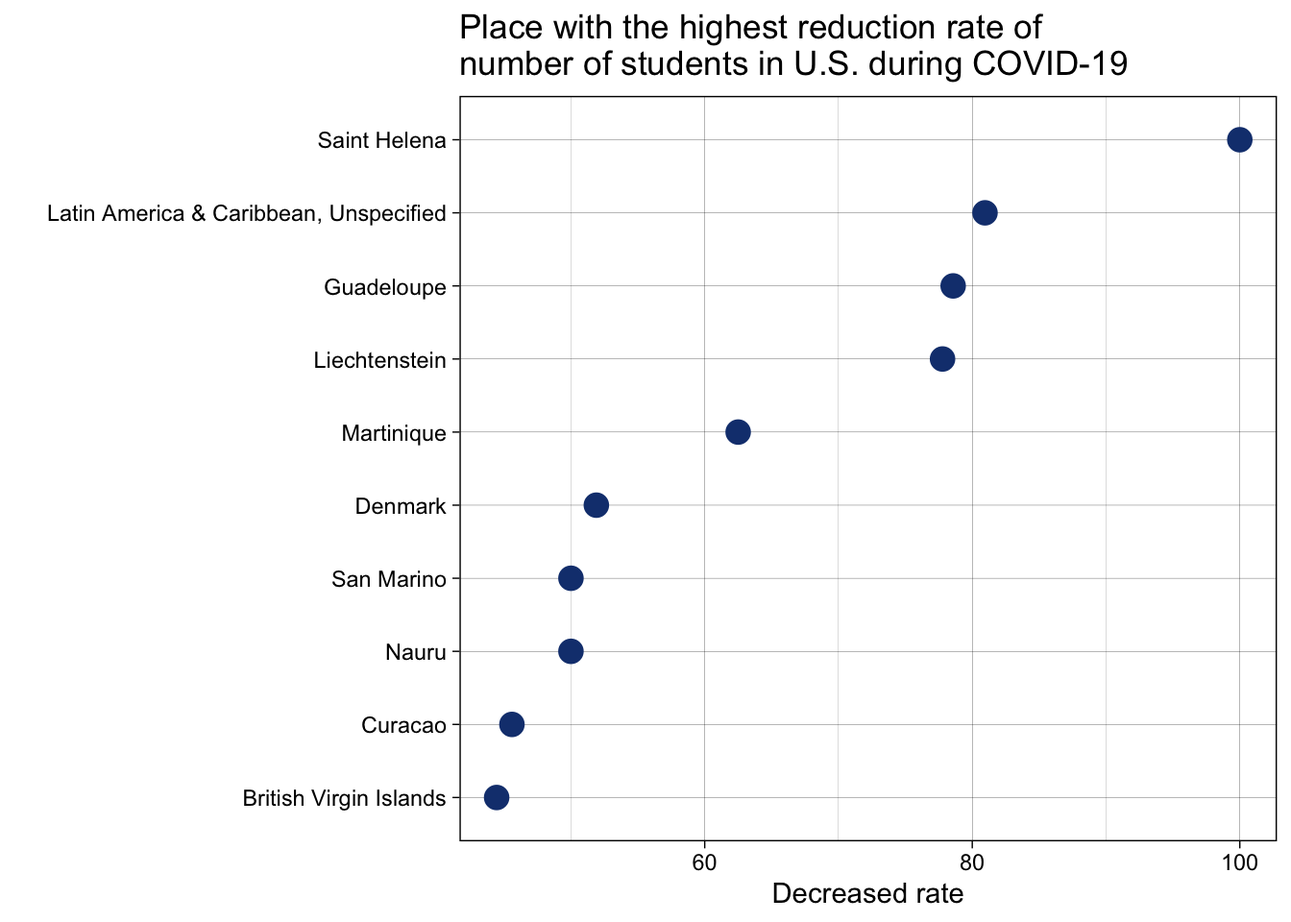
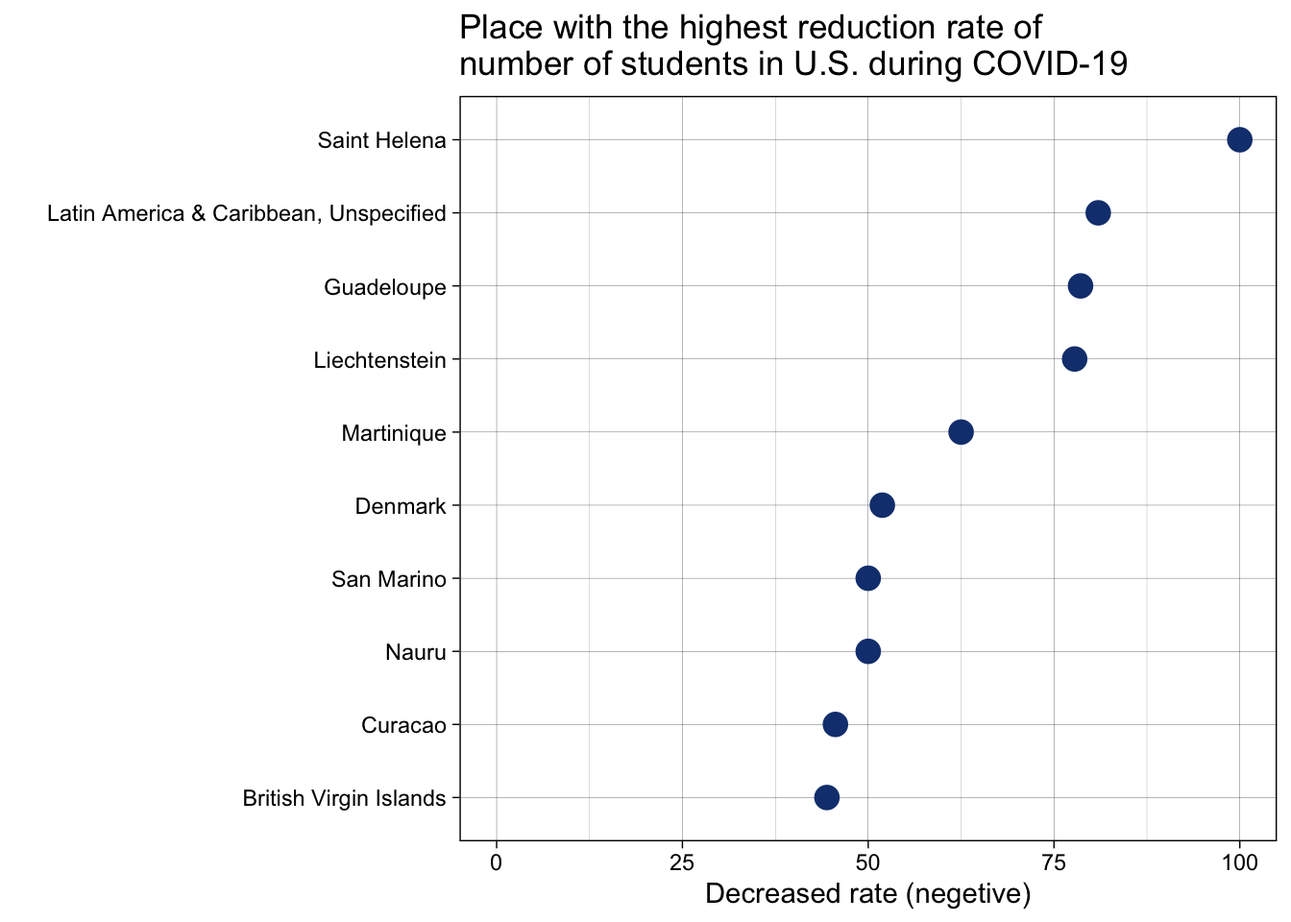
update plot

diff --git a/docs/results.html b/docs/results.html
@@ -330,7 +330,7 @@ code span.wa { color: #60a0b0; font-weight: bold; font-style: italic; } /* Warni
 <span id="cb4-38"><a href="results.html#cb4-38" aria-hidden="true" tabindex="-1"></a>  <span class="fu">theme_linedraw</span>() <span class="sc">+</span></span>
 <span id="cb4-39"><a href="results.html#cb4-39" aria-hidden="true" tabindex="-1"></a>  <span class="fu">scale_color_manual</span>(<span class="at">values =</span> colorsets[<span class="fu">c</span>(<span class="dv">4</span>,<span class="dv">2</span>)])</span>
 <span id="cb4-40"><a href="results.html#cb4-40" aria-hidden="true" tabindex="-1"></a></span>
-<span id="cb4-41"><a href="results.html#cb4-41" aria-hidden="true" tabindex="-1"></a>pt2 <span class="ot">&lt;-</span> <span class="fu">ggarrange</span>(p.top16, p.other, <span class="at">ncol=</span><span class="dv">1</span>, <span class="at">nrow=</span><span class="dv">2</span>, <span class="at">common.legend =</span> <span class="cn">TRUE</span>, <span class="at">legend=</span><span class="st">&quot;top&quot;</span>,</span>
+<span id="cb4-41"><a href="results.html#cb4-41" aria-hidden="true" tabindex="-1"></a>pt2 <span class="ot">&lt;-</span> <span class="fu">ggarrange</span>(p.top16, p.other, <span class="at">ncol=</span><span class="dv">1</span>, <span class="at">nrow=</span><span class="dv">2</span>, <span class="at">common.legend =</span> <span class="cn">TRUE</span>, <span class="at">legend=</span><span class="st">&quot;right&quot;</span>,</span>
 <span id="cb4-42"><a href="results.html#cb4-42" aria-hidden="true" tabindex="-1"></a>                 <span class="at">align =</span> <span class="st">&quot;v&quot;</span>)</span>
 <span id="cb4-43"><a href="results.html#cb4-43" aria-hidden="true" tabindex="-1"></a></span>
 <span id="cb4-44"><a href="results.html#cb4-44" aria-hidden="true" tabindex="-1"></a><span class="fu">annotate_figure</span>(pt2, </span>
@@ -377,8 +377,8 @@ According to this map, we can find that China, India, and South Korea are the ma
 <span id="cb7-13"><a href="results.html#cb7-13" aria-hidden="true" tabindex="-1"></a>   <span class="fu">scale_color_manual</span>(<span class="at">values =</span> colorsets[<span class="fu">c</span>(<span class="dv">2</span>,<span class="dv">7</span>)]) <span class="sc">+</span> </span>
 <span id="cb7-14"><a href="results.html#cb7-14" aria-hidden="true" tabindex="-1"></a>  <span class="fu">theme_bw</span>()</span></code></pre></div>
 <div class="sourceCode" id="cb8"><pre class="sourceCode r"><code class="sourceCode r"><span id="cb8-1"><a href="results.html#cb8-1" aria-hidden="true" tabindex="-1"></a><span class="fu">ggplotly</span>(g, <span class="at">tooltip =</span> <span class="fu">c</span>(<span class="st">&quot;x&quot;</span>,<span class="st">&quot;text&quot;</span>))</span></code></pre></div>
-<div id="htmlwidget-7f4f1e26982aa2153050" style="width:672px;height:480px;" class="plotly html-widget"></div>
-<script type="application/json" data-for="htmlwidget-7f4f1e26982aa2153050">{"x":{"data":[{"x":[-9.14634146341463,-34.5679012345679,-8.06451612903226,-5.60646900269542,-7.68698060941828,-18.1818181818182,-6.86274509803922,-18.6263096623981,-9.44498539435248,-6.09348914858097,-8.50202429149797,-2.85714285714286,-17.3218673218673,-11.3821138211382,-42.5,-8.88888888888889,-2.71084337349398,-6.51978417266187,-5.17241379310345,-5.30137981118373,-10.2564102564103,-13.0434782608696,-11.296738265712,-8.36820083682008,-30.7692307692308,-10.7692307692308,-5.26315789473684,-20.8955223880597,-28.8808664259928,-6.55427990117715,-100,-11.340206185567,-8.41121495327103,-14.8263773313433,-13.2782531720271,-32.8643044320383,-16.10337972167,-12.5173852573018,-20.7151318034893,-17.0755353228798,-16.1137440758294,-2.71554650373388,-24.6753246753247,-13.2256995505478,-12.4820659971306,-8.12324929971989,-20.6896551724138,-12.2388059701493,-5.84456480665071,-13.5995009357455,-15.2892561983471,-1.10294117647059,-1.46520146520147,-31.4814814814815,-9.7710843373494,-13.7404580152672,-23.589001447178,-7.11159737417943,-11.7754172989378,-21.0035523978686,-19.4020149496263,-9.02552887243975,-3.83561643835616,-6.19469026548673,-40.7239819004525,-2.62697022767075,-8.24742268041237,-28.3412322274881,-9.05923344947735,-15.2173913043478,-16.7372881355932,-13.4259259259259,-20.1834862385321,-51.8987341772152,-11.864406779661,-29.7101449275362,-33.3844882540432,-8.90625,-41.9606145855875,-9.36118923262354,-9.80662983425414,-12.6520681265207,-29.1530944625407,-19.2808840507999,-10.9826589595376,-15.3284671532847,-77.7777777777778,-14.6875,-29.5454545454545,-21.5094339622642,-11.5384615384615,-26.6355140186916,-0.819672131147541,-35.2035203520352,-32.9268292682927,-12.2273628552545,-15.3104925053533,-14.8,-9.21972416399018,-50,-11.2068965517241,-19.3353474320242,-25.7692307692308,-27.319587628866,-36.3523187052599,-26.2686567164179,-14.4710473578736,-8.42548709847288,-25.3625883227966,-3.62694300518135,-6.32,-6.77290836653386,-44.4444444444444,-11.7647058823529,-11.5384615384615,-45.5882352941176,-9.7897026831037,-12.4223602484472,-78.5714285714286,-5.89459084604716,-62.5,-5.49450549450549,-26.1194029850746,-7.23270440251572,-9.27835051546392,-8.54838709677419,-5.62934851359899,-7.78242677824268,-6.47848218417399,-9.49261221076108,-2.24948875255624,-2.86885245901639,-10.0494233937397,-6.25521267723103,-16.021834323076,-10.3101087394281,-8.7325028894311,-11.8162692847125,-42.8571428571429,-3.50877192982456,-12.80353200883,-10.6929248723559,-10.8374384236453,-16.0422670509126,-20.1036269430052,-17.1608265947889,-4.21958213846784,-18.2567164179105,-0.526623756582797,-13.3547008547009,-11.2970711297071,-16.1194029850746,-29.1501114449075,-8.207343412527,-16.2487945998071,-8.4375,-8.36820083682008,-4.84581497797357,-21.8055555555556,-13.6757838559039,-19.6992481203008,-3.26638965835642,-27.2782015254918,-1.11111111111111,-20.8955223880597,-12.5,-50,-18.1034482758621,-26.4705882352941,-5.88235294117647,-15.3846153846154,-80.9523809523809],"y":[1,1,1,1,1,1,1,1,1,1,1,1,1,1,1,1,1,1,1,1,1,1,1,1,1,1,1,1,1,1,1,1,1,2,2,2,2,2,2,2,2,2,2,2,2,2,2,2,2,2,2,2,2,2,2,2,2,2,2,2,2,2,3,3,3,3,3,3,3,3,3,3,3,3,3,3,3,3,3,3,3,3,3,3,3,3,3,3,3,3,3,3,3,3,3,3,3,3,3,3,3,3,3,3,3,3,3,3,3,4,4,4,4,4,4,4,4,4,4,4,4,4,4,4,4,4,4,4,4,4,4,4,4,4,4,4,4,4,4,4,4,4,5,5,5,5,5,5,5,5,5,5,5,5,5,5,1,1,1,1,1,6,7,7,7,7,7,7,7,7,7,4],"text":["diff_rate:   -9.1463415<br />Burundi","diff_rate:  -34.5679012<br />Eritrea","diff_rate:   -8.0645161<br />Ethiopia","diff_rate:   -5.6064690<br />Kenya","diff_rate:   -7.6869806<br />Rwanda","diff_rate:  -18.1818182<br />Seychelles","diff_rate:   -6.8627451<br />South Sudan","diff_rate:  -18.6263097<br />Tanzania","diff_rate:   -9.4449854<br />Cameroon","diff_rate:   -6.0934891<br />Congo, Dem. Rep. of the (Kinshasa)","diff_rate:   -8.5020243<br />Equatorial Guinea","diff_rate:   -2.8571429<br />Gabon","diff_rate:  -17.3218673<br />Angola","diff_rate:  -11.3821138<br />Botswana","diff_rate:  -42.5000000<br />Comoros","diff_rate:   -8.8888889<br />Malawi","diff_rate:   -2.7108434<br />Mauritius","diff_rate:   -6.5197842<br />South Africa","diff_rate:   -5.1724138<br />Zambia","diff_rate:   -5.3013798<br />Zimbabwe","diff_rate:  -10.2564103<br />Benin","diff_rate:  -13.0434783<br />Burkina Faso","diff_rate:  -11.2967383<br />Côte d’Ivoire/Ivory Coast","diff_rate:   -8.3682008<br />Gambia","diff_rate:  -30.7692308<br />Guinea-Bissau","diff_rate:  -10.7692308<br />Liberia","diff_rate:   -5.2631579<br />Mali","diff_rate:  -20.8955224<br />Mauritania","diff_rate:  -28.8808664<br />Niger","diff_rate:   -6.5542799<br />Nigeria","diff_rate: -100.0000000<br />Saint Helena","diff_rate:  -11.3402062<br />Senegal","diff_rate:   -8.4112150<br />Togo","diff_rate:  -14.8263773<br />China","diff_rate:  -13.2782532<br />Hong Kong","diff_rate:  -32.8643044<br />Japan","diff_rate:  -16.1033797<br />Macau","diff_rate:  -12.5173853<br />Mongolia","diff_rate:  -20.7151318<br />South Korea","diff_rate:  -17.0755353<br />Taiwan, China","diff_rate:  -16.1137441<br />Afghanistan","diff_rate:   -2.7155465<br />Bangladesh","diff_rate:  -24.6753247<br />Bhutan","diff_rate:  -13.2256996<br />India","diff_rate:  -12.4820660<br />Kazakhstan","diff_rate:   -8.1232493<br />Kyrgyzstan","diff_rate:  -20.6896552<br />Maldives","diff_rate:  -12.2388060<br />Nepal","diff_rate:   -5.8445648<br />Pakistan","diff_rate:  -13.5995009<br />Sri Lanka","diff_rate:  -15.2892562<br />Tajikistan","diff_rate:   -1.1029412<br />Turkmenistan","diff_rate:   -1.4652015<br />Uzbekistan","diff_rate:  -31.4814815<br />Brunei","diff_rate:   -9.7710843<br />Indonesia","diff_rate:  -13.7404580<br />Laos","diff_rate:  -23.5890014<br />Malaysia","diff_rate:   -7.1115974<br />Myanmar","diff_rate:  -11.7754173<br />Philippines","diff_rate:  -21.0035524<br />Singapore","diff_rate:  -19.4020149<br />Thailand","diff_rate:   -9.0255289<br />Vietnam","diff_rate:   -3.8356164<br />Albania","diff_rate:   -6.1946903<br />Armenia","diff_rate:  -40.7239819<br />Austria","diff_rate:   -2.6269702<br />Azerbaijan","diff_rate:   -8.2474227<br />Belarus","diff_rate:  -28.3412322<br />Belgium","diff_rate:   -9.0592334<br />Bosnia and Herzegovina","diff_rate:  -15.2173913<br />Bulgaria","diff_rate:  -16.7372881<br />Croatia","diff_rate:  -13.4259259<br />Cyprus","diff_rate:  -20.1834862<br />Czechia/Czech Republic","diff_rate:  -51.8987342<br />Denmark","diff_rate:  -11.8644068<br />Estonia","diff_rate:  -29.7101449<br />Finland","diff_rate:  -33.3844883<br />France","diff_rate:   -8.9062500<br />Georgia","diff_rate:  -41.9606146<br />Germany","diff_rate:   -9.3611892<br />Greece","diff_rate:   -9.8066298<br />Hungary","diff_rate:  -12.6520681<br />Iceland","diff_rate:  -29.1530945<br />Ireland","diff_rate:  -19.2808841<br />Italy","diff_rate:  -10.9826590<br />Kosovo","diff_rate:  -15.3284672<br />Latvia","diff_rate:  -77.7777778<br />Liechtenstein","diff_rate:  -14.6875000<br />Lithuania","diff_rate:  -29.5454545<br />Luxembourg","diff_rate:  -21.5094340<br />North Macedonia/Macedonia","diff_rate:  -11.5384615<br />Malta","diff_rate:  -26.6355140<br />Moldova","diff_rate:   -0.8196721<br />Montenegro","diff_rate:  -35.2035204<br />Netherlands","diff_rate:  -32.9268293<br />Norway","diff_rate:  -12.2273629<br />Poland","diff_rate:  -15.3104925<br />Portugal","diff_rate:  -14.8000000<br />Romania","diff_rate:   -9.2197242<br />Russia","diff_rate:  -50.0000000<br />San Marino","diff_rate:  -11.2068966<br />Serbia","diff_rate:  -19.3353474<br />Slovakia","diff_rate:  -25.7692308<br />Slovenia","diff_rate:  -27.3195876<br />Spain","diff_rate:  -36.3523187<br />Sweden","diff_rate:  -26.2686567<br />Switzerland","diff_rate:  -14.4710474<br />Turkey","diff_rate:   -8.4254871<br />Ukraine","diff_rate:  -25.3625883<br />United Kingdom","diff_rate:   -3.6269430<br />Antigua and Barbuda","diff_rate:   -6.3200000<br />Bahamas","diff_rate:   -6.7729084<br />Bermuda","diff_rate:  -44.4444444<br />British Virgin Islands","diff_rate:  -11.7647059<br />Cayman Islands","diff_rate:  -11.5384615<br />Cuba","diff_rate:  -45.5882353<br />Curacao","diff_rate:   -9.7897027<br />Dominican Republic","diff_rate:  -12.4223602<br />Grenada","diff_rate:  -78.5714286<br />Guadeloupe","diff_rate:   -5.8945908<br />Jamaica","diff_rate:  -62.5000000<br />Martinique","diff_rate:   -5.4945055<br />St. Vincent and the Grenadines","diff_rate:  -26.1194030<br />Sint Maarten","diff_rate:   -7.2327044<br />Trinidad and Tobago","diff_rate:   -9.2783505<br />Belize","diff_rate:   -8.5483871<br />Costa Rica","diff_rate:   -5.6293485<br />El Salvador","diff_rate:   -7.7824268<br />Guatemala","diff_rate:   -6.4784822<br />Honduras","diff_rate:   -9.4926122<br />Mexico","diff_rate:   -2.2494888<br />Nicaragua","diff_rate:   -2.8688525<br />Panama","diff_rate:  -10.0494234<br />Argentina","diff_rate:   -6.2552127<br />Bolivia","diff_rate:  -16.0218343<br />Brazil","diff_rate:  -10.3101087<br />Chile","diff_rate:   -8.7325029<br />Colombia","diff_rate:  -11.8162693<br />Ecuador","diff_rate:  -42.8571429<br />French Guiana","diff_rate:   -3.5087719<br />Suriname","diff_rate:  -12.8035320<br />Uruguay","diff_rate:  -10.6929249<br />Venezuela","diff_rate:  -10.8374384<br />Bahrain","diff_rate:  -16.0422671<br />Iran","diff_rate:  -20.1036269<br />Iraq","diff_rate:  -17.1608266<br />Israel","diff_rate:   -4.2195821<br />Jordan","diff_rate:  -18.2567164<br />Kuwait","diff_rate:   -0.5266238<br />Lebanon","diff_rate:  -13.3547009<br />Oman","diff_rate:  -11.2970711<br />Palestinian Territories","diff_rate:  -16.1194030<br />Qatar","diff_rate:  -29.1501114<br />Saudi Arabia","diff_rate:   -8.2073434<br />Syria","diff_rate:  -16.2487946<br />United Arab Emirates","diff_rate:   -8.4375000<br />Yemen","diff_rate:   -8.3682008<br />Algeria","diff_rate:   -4.8458150<br />Egypt","diff_rate:  -21.8055556<br />Libya","diff_rate:  -13.6757839<br />Morocco","diff_rate:  -19.6992481<br />Tunisia","diff_rate:   -3.2663897<br />Canada","diff_rate:  -27.2782015<br />Australia","diff_rate:   -1.1111111<br />Fiji","diff_rate:  -20.8955224<br />Kiribati","diff_rate:  -12.5000000<br />Marshall Islands","diff_rate:  -50.0000000<br />Nauru","diff_rate:  -18.1034483<br />New Zealand","diff_rate:  -26.4705882<br />Palau","diff_rate:   -5.8823529<br />Solomon Islands","diff_rate:  -15.3846154<br />Vanuatu","diff_rate:  -80.9523810<br />Latin America & Caribbean, Unspecified"],"type":"scatter","mode":"markers","marker":{"autocolorscale":false,"color":"rgba(21,62,126,1)","opacity":0.5,"size":7.55905511811024,"symbol":"circle","line":{"width":1.88976377952756,"color":"rgba(21,62,126,1)"}},"hoveron":"points","name":"decrease","legendgroup":"decrease","showlegend":true,"xaxis":"x","yaxis":"y","hoverinfo":"text","frame":null},{"x":[0,42.6470588235294,1.88679245283019,1.83908045977011,8.33333333333333,1.96078431372549,9.80392156862745,0,4.02298850574713,0,0,3.1496062992126,0.826446280991736,100,3.27868852459016,0.189528547737503,13.0434782608696,1.00502512562814,100,14.2857142857143,10,45.4545454545455,100,30,0,0,1.36986301369863,13.758389261745,1.21527777777778,5.01968503937008,50,8.7962962962963,0.465116279069767,24.3243243243243,null,18.936877076412,32.0197044334975,0.253735551170003,null,32.6530612244898,35.2941176470588,16.6666666666667,900,0,13.6363636363636,39.4736842105263,17.3913043478261,50,null,71.4285714285714,null,null,50,null,null],"y":[1,1,1,1,1,1,1,1,1,1,1,1,1,1,1,1,1,1,2,2,2,3,3,3,3,4,4,4,4,4,4,4,4,4,4,4,4,4,7,7,7,7,7,7,7,7,7,7,7,8,1,2,3,5,7],"text":["diff_rate:    0.0000000<br />Djibouti","diff_rate:   42.6470588<br />Somalia","diff_rate:    1.8867925<br />Sudan","diff_rate:    1.8390805<br />Uganda","diff_rate:    8.3333333<br />Central African Republic","diff_rate:    1.9607843<br />Chad","diff_rate:    9.8039216<br />Congo, Republic of the (Brazzaville)","diff_rate:    0.0000000<br />São Tomé & Príncipe","diff_rate:    4.0229885<br />Eswatini","diff_rate:    0.0000000<br />Lesotho","diff_rate:    0.0000000<br />Madagascar","diff_rate:    3.1496063<br />Mozambique","diff_rate:    0.8264463<br />Namibia","diff_rate:  100.0000000<br />Reunion","diff_rate:    3.2786885<br />Cabo Verde/Cape Verde","diff_rate:    0.1895285<br />Ghana","diff_rate:   13.0434783<br />Guinea","diff_rate:    1.0050251<br />Sierra Leone","diff_rate:  100.0000000<br />North Korea","diff_rate:   14.2857143<br />Cambodia","diff_rate:   10.0000000<br />Timor-Leste/East Timor","diff_rate:   45.4545455<br />Andorra","diff_rate:  100.0000000<br />Gibraltar","diff_rate:   30.0000000<br />Monaco","diff_rate:    0.0000000<br />Vatican City/Holy See","diff_rate:    0.0000000<br />Anguilla","diff_rate:    1.3698630<br />Aruba","diff_rate:   13.7583893<br />Barbados","diff_rate:    1.2152778<br />Dominica","diff_rate:    5.0196850<br />Haiti","diff_rate:   50.0000000<br />Montserrat","diff_rate:    8.7962963<br />St. Kitts and Nevis","diff_rate:    0.4651163<br />St. Lucia","diff_rate:   24.3243243<br />Turks and Caicos","diff_rate:          NaN<br />Falkland Islands","diff_rate:   18.9368771<br />Guyana","diff_rate:   32.0197044<br />Paraguay","diff_rate:    0.2537356<br />Peru","diff_rate:           NA<br />Cook Islands","diff_rate:   32.6530612<br />French Polynesia","diff_rate:   35.2941176<br />Micronesia","diff_rate:   16.6666667<br />New Caledonia","diff_rate:  900.0000000<br />Niue","diff_rate:    0.0000000<br />Norfolk Island","diff_rate:   13.6363636<br />Papua New Guinea","diff_rate:   39.4736842<br />Samoa","diff_rate:   17.3913043<br />Tonga","diff_rate:   50.0000000<br />Tuvalu","diff_rate:           NA<br />Wallis and Futuna","diff_rate:   71.4285714<br />Stateless","diff_rate:          NaN<br />Africa, Unspecified","diff_rate:          NaN<br />Asia, Unspecified","diff_rate:   50.0000000<br />Europe, Unspecified","diff_rate:          NaN<br />Middle East, Unspecified","diff_rate:          NaN<br />Oceania, Unspecified"],"type":"scatter","mode":"markers","marker":{"autocolorscale":false,"color":"rgba(234,95,148,1)","opacity":0.5,"size":7.55905511811024,"symbol":"circle","line":{"width":1.88976377952756,"color":"rgba(234,95,148,1)"}},"hoveron":"points","name":"increase","legendgroup":"increase","showlegend":true,"xaxis":"x","yaxis":"y","hoverinfo":"text","frame":null}],"layout":{"margin":{"t":43.7625570776256,"r":7.30593607305936,"b":40.1826484018265,"l":171.689497716895},"plot_bgcolor":"rgba(255,255,255,1)","paper_bgcolor":"rgba(255,255,255,1)","font":{"color":"rgba(0,0,0,1)","family":"","size":14.6118721461187},"title":{"text":"Change rate of student number during COVID-19","font":{"color":"rgba(0,0,0,1)","family":"","size":17.5342465753425},"x":0,"xref":"paper"},"xaxis":{"domain":[0,1],"automargin":true,"type":"linear","autorange":false,"range":[-150,950],"tickmode":"array","ticktext":["0","250","500","750"],"tickvals":[0,250,500,750],"categoryorder":"array","categoryarray":["0","250","500","750"],"nticks":null,"ticks":"outside","tickcolor":"rgba(51,51,51,1)","ticklen":3.65296803652968,"tickwidth":0.66417600664176,"showticklabels":true,"tickfont":{"color":"rgba(77,77,77,1)","family":"","size":11.689497716895},"tickangle":-0,"showline":false,"linecolor":null,"linewidth":0,"showgrid":true,"gridcolor":"rgba(235,235,235,1)","gridwidth":0.66417600664176,"zeroline":false,"anchor":"y","title":{"text":"diff_rate","font":{"color":"rgba(0,0,0,1)","family":"","size":14.6118721461187}},"hoverformat":".2f"},"yaxis":{"domain":[0,1],"automargin":true,"type":"linear","autorange":false,"range":[0.4,8.6],"tickmode":"array","ticktext":["Africa","Asia","Europe","Latin America & Caribbean","Middle East","North America","Oceania","Unknown State"],"tickvals":[1,2,3,4,5,6,7,8],"categoryorder":"array","categoryarray":["Africa","Asia","Europe","Latin America & Caribbean","Middle East","North America","Oceania","Unknown State"],"nticks":null,"ticks":"outside","tickcolor":"rgba(51,51,51,1)","ticklen":3.65296803652968,"tickwidth":0.66417600664176,"showticklabels":true,"tickfont":{"color":"rgba(77,77,77,1)","family":"","size":11.689497716895},"tickangle":-0,"showline":false,"linecolor":null,"linewidth":0,"showgrid":true,"gridcolor":"rgba(235,235,235,1)","gridwidth":0.66417600664176,"zeroline":false,"anchor":"x","title":{"text":"Continents","font":{"color":"rgba(0,0,0,1)","family":"","size":14.6118721461187}},"hoverformat":".2f"},"shapes":[{"type":"rect","fillcolor":"transparent","line":{"color":"rgba(51,51,51,1)","width":0.66417600664176,"linetype":"solid"},"yref":"paper","xref":"paper","x0":0,"x1":1,"y0":0,"y1":1}],"showlegend":true,"legend":{"bgcolor":"rgba(255,255,255,1)","bordercolor":"transparent","borderwidth":1.88976377952756,"font":{"color":"rgba(0,0,0,1)","family":"","size":11.689497716895},"title":{"text":"change","font":{"color":"rgba(0,0,0,1)","family":"","size":14.6118721461187}}},"hovermode":"closest","barmode":"relative"},"config":{"doubleClick":"reset","modeBarButtonsToAdd":["hoverclosest","hovercompare"],"showSendToCloud":false},"source":"A","attrs":{"d2223728c843":{"x":{},"y":{},"colour":{},"text":{},"type":"scatter"}},"cur_data":"d2223728c843","visdat":{"d2223728c843":["function (y) ","x"]},"highlight":{"on":"plotly_click","persistent":false,"dynamic":false,"selectize":false,"opacityDim":0.2,"selected":{"opacity":1},"debounce":0},"shinyEvents":["plotly_hover","plotly_click","plotly_selected","plotly_relayout","plotly_brushed","plotly_brushing","plotly_clickannotation","plotly_doubleclick","plotly_deselect","plotly_afterplot","plotly_sunburstclick"],"base_url":"https://plot.ly"},"evals":[],"jsHooks":[]}</script>
+<div id="htmlwidget-c483a3280ae7b2f08922" style="width:672px;height:480px;" class="plotly html-widget"></div>
+<script type="application/json" data-for="htmlwidget-c483a3280ae7b2f08922">{"x":{"data":[{"x":[-9.14634146341463,-34.5679012345679,-8.06451612903226,-5.60646900269542,-7.68698060941828,-18.1818181818182,-6.86274509803922,-18.6263096623981,-9.44498539435248,-6.09348914858097,-8.50202429149797,-2.85714285714286,-17.3218673218673,-11.3821138211382,-42.5,-8.88888888888889,-2.71084337349398,-6.51978417266187,-5.17241379310345,-5.30137981118373,-10.2564102564103,-13.0434782608696,-11.296738265712,-8.36820083682008,-30.7692307692308,-10.7692307692308,-5.26315789473684,-20.8955223880597,-28.8808664259928,-6.55427990117715,-100,-11.340206185567,-8.41121495327103,-14.8263773313433,-13.2782531720271,-32.8643044320383,-16.10337972167,-12.5173852573018,-20.7151318034893,-17.0755353228798,-16.1137440758294,-2.71554650373388,-24.6753246753247,-13.2256995505478,-12.4820659971306,-8.12324929971989,-20.6896551724138,-12.2388059701493,-5.84456480665071,-13.5995009357455,-15.2892561983471,-1.10294117647059,-1.46520146520147,-31.4814814814815,-9.7710843373494,-13.7404580152672,-23.589001447178,-7.11159737417943,-11.7754172989378,-21.0035523978686,-19.4020149496263,-9.02552887243975,-3.83561643835616,-6.19469026548673,-40.7239819004525,-2.62697022767075,-8.24742268041237,-28.3412322274881,-9.05923344947735,-15.2173913043478,-16.7372881355932,-13.4259259259259,-20.1834862385321,-51.8987341772152,-11.864406779661,-29.7101449275362,-33.3844882540432,-8.90625,-41.9606145855875,-9.36118923262354,-9.80662983425414,-12.6520681265207,-29.1530944625407,-19.2808840507999,-10.9826589595376,-15.3284671532847,-77.7777777777778,-14.6875,-29.5454545454545,-21.5094339622642,-11.5384615384615,-26.6355140186916,-0.819672131147541,-35.2035203520352,-32.9268292682927,-12.2273628552545,-15.3104925053533,-14.8,-9.21972416399018,-50,-11.2068965517241,-19.3353474320242,-25.7692307692308,-27.319587628866,-36.3523187052599,-26.2686567164179,-14.4710473578736,-8.42548709847288,-25.3625883227966,-3.62694300518135,-6.32,-6.77290836653386,-44.4444444444444,-11.7647058823529,-11.5384615384615,-45.5882352941176,-9.7897026831037,-12.4223602484472,-78.5714285714286,-5.89459084604716,-62.5,-5.49450549450549,-26.1194029850746,-7.23270440251572,-9.27835051546392,-8.54838709677419,-5.62934851359899,-7.78242677824268,-6.47848218417399,-9.49261221076108,-2.24948875255624,-2.86885245901639,-10.0494233937397,-6.25521267723103,-16.021834323076,-10.3101087394281,-8.7325028894311,-11.8162692847125,-42.8571428571429,-3.50877192982456,-12.80353200883,-10.6929248723559,-10.8374384236453,-16.0422670509126,-20.1036269430052,-17.1608265947889,-4.21958213846784,-18.2567164179105,-0.526623756582797,-13.3547008547009,-11.2970711297071,-16.1194029850746,-29.1501114449075,-8.207343412527,-16.2487945998071,-8.4375,-8.36820083682008,-4.84581497797357,-21.8055555555556,-13.6757838559039,-19.6992481203008,-3.26638965835642,-27.2782015254918,-1.11111111111111,-20.8955223880597,-12.5,-50,-18.1034482758621,-26.4705882352941,-5.88235294117647,-15.3846153846154,-80.9523809523809],"y":[1,1,1,1,1,1,1,1,1,1,1,1,1,1,1,1,1,1,1,1,1,1,1,1,1,1,1,1,1,1,1,1,1,2,2,2,2,2,2,2,2,2,2,2,2,2,2,2,2,2,2,2,2,2,2,2,2,2,2,2,2,2,3,3,3,3,3,3,3,3,3,3,3,3,3,3,3,3,3,3,3,3,3,3,3,3,3,3,3,3,3,3,3,3,3,3,3,3,3,3,3,3,3,3,3,3,3,3,3,4,4,4,4,4,4,4,4,4,4,4,4,4,4,4,4,4,4,4,4,4,4,4,4,4,4,4,4,4,4,4,4,4,5,5,5,5,5,5,5,5,5,5,5,5,5,5,1,1,1,1,1,6,7,7,7,7,7,7,7,7,7,4],"text":["diff_rate:   -9.1463415<br />Burundi","diff_rate:  -34.5679012<br />Eritrea","diff_rate:   -8.0645161<br />Ethiopia","diff_rate:   -5.6064690<br />Kenya","diff_rate:   -7.6869806<br />Rwanda","diff_rate:  -18.1818182<br />Seychelles","diff_rate:   -6.8627451<br />South Sudan","diff_rate:  -18.6263097<br />Tanzania","diff_rate:   -9.4449854<br />Cameroon","diff_rate:   -6.0934891<br />Congo, Dem. Rep. of the (Kinshasa)","diff_rate:   -8.5020243<br />Equatorial Guinea","diff_rate:   -2.8571429<br />Gabon","diff_rate:  -17.3218673<br />Angola","diff_rate:  -11.3821138<br />Botswana","diff_rate:  -42.5000000<br />Comoros","diff_rate:   -8.8888889<br />Malawi","diff_rate:   -2.7108434<br />Mauritius","diff_rate:   -6.5197842<br />South Africa","diff_rate:   -5.1724138<br />Zambia","diff_rate:   -5.3013798<br />Zimbabwe","diff_rate:  -10.2564103<br />Benin","diff_rate:  -13.0434783<br />Burkina Faso","diff_rate:  -11.2967383<br />Côte d’Ivoire/Ivory Coast","diff_rate:   -8.3682008<br />Gambia","diff_rate:  -30.7692308<br />Guinea-Bissau","diff_rate:  -10.7692308<br />Liberia","diff_rate:   -5.2631579<br />Mali","diff_rate:  -20.8955224<br />Mauritania","diff_rate:  -28.8808664<br />Niger","diff_rate:   -6.5542799<br />Nigeria","diff_rate: -100.0000000<br />Saint Helena","diff_rate:  -11.3402062<br />Senegal","diff_rate:   -8.4112150<br />Togo","diff_rate:  -14.8263773<br />China","diff_rate:  -13.2782532<br />Hong Kong","diff_rate:  -32.8643044<br />Japan","diff_rate:  -16.1033797<br />Macau","diff_rate:  -12.5173853<br />Mongolia","diff_rate:  -20.7151318<br />South Korea","diff_rate:  -17.0755353<br />Taiwan, China","diff_rate:  -16.1137441<br />Afghanistan","diff_rate:   -2.7155465<br />Bangladesh","diff_rate:  -24.6753247<br />Bhutan","diff_rate:  -13.2256996<br />India","diff_rate:  -12.4820660<br />Kazakhstan","diff_rate:   -8.1232493<br />Kyrgyzstan","diff_rate:  -20.6896552<br />Maldives","diff_rate:  -12.2388060<br />Nepal","diff_rate:   -5.8445648<br />Pakistan","diff_rate:  -13.5995009<br />Sri Lanka","diff_rate:  -15.2892562<br />Tajikistan","diff_rate:   -1.1029412<br />Turkmenistan","diff_rate:   -1.4652015<br />Uzbekistan","diff_rate:  -31.4814815<br />Brunei","diff_rate:   -9.7710843<br />Indonesia","diff_rate:  -13.7404580<br />Laos","diff_rate:  -23.5890014<br />Malaysia","diff_rate:   -7.1115974<br />Myanmar","diff_rate:  -11.7754173<br />Philippines","diff_rate:  -21.0035524<br />Singapore","diff_rate:  -19.4020149<br />Thailand","diff_rate:   -9.0255289<br />Vietnam","diff_rate:   -3.8356164<br />Albania","diff_rate:   -6.1946903<br />Armenia","diff_rate:  -40.7239819<br />Austria","diff_rate:   -2.6269702<br />Azerbaijan","diff_rate:   -8.2474227<br />Belarus","diff_rate:  -28.3412322<br />Belgium","diff_rate:   -9.0592334<br />Bosnia and Herzegovina","diff_rate:  -15.2173913<br />Bulgaria","diff_rate:  -16.7372881<br />Croatia","diff_rate:  -13.4259259<br />Cyprus","diff_rate:  -20.1834862<br />Czechia/Czech Republic","diff_rate:  -51.8987342<br />Denmark","diff_rate:  -11.8644068<br />Estonia","diff_rate:  -29.7101449<br />Finland","diff_rate:  -33.3844883<br />France","diff_rate:   -8.9062500<br />Georgia","diff_rate:  -41.9606146<br />Germany","diff_rate:   -9.3611892<br />Greece","diff_rate:   -9.8066298<br />Hungary","diff_rate:  -12.6520681<br />Iceland","diff_rate:  -29.1530945<br />Ireland","diff_rate:  -19.2808841<br />Italy","diff_rate:  -10.9826590<br />Kosovo","diff_rate:  -15.3284672<br />Latvia","diff_rate:  -77.7777778<br />Liechtenstein","diff_rate:  -14.6875000<br />Lithuania","diff_rate:  -29.5454545<br />Luxembourg","diff_rate:  -21.5094340<br />North Macedonia/Macedonia","diff_rate:  -11.5384615<br />Malta","diff_rate:  -26.6355140<br />Moldova","diff_rate:   -0.8196721<br />Montenegro","diff_rate:  -35.2035204<br />Netherlands","diff_rate:  -32.9268293<br />Norway","diff_rate:  -12.2273629<br />Poland","diff_rate:  -15.3104925<br />Portugal","diff_rate:  -14.8000000<br />Romania","diff_rate:   -9.2197242<br />Russia","diff_rate:  -50.0000000<br />San Marino","diff_rate:  -11.2068966<br />Serbia","diff_rate:  -19.3353474<br />Slovakia","diff_rate:  -25.7692308<br />Slovenia","diff_rate:  -27.3195876<br />Spain","diff_rate:  -36.3523187<br />Sweden","diff_rate:  -26.2686567<br />Switzerland","diff_rate:  -14.4710474<br />Turkey","diff_rate:   -8.4254871<br />Ukraine","diff_rate:  -25.3625883<br />United Kingdom","diff_rate:   -3.6269430<br />Antigua and Barbuda","diff_rate:   -6.3200000<br />Bahamas","diff_rate:   -6.7729084<br />Bermuda","diff_rate:  -44.4444444<br />British Virgin Islands","diff_rate:  -11.7647059<br />Cayman Islands","diff_rate:  -11.5384615<br />Cuba","diff_rate:  -45.5882353<br />Curacao","diff_rate:   -9.7897027<br />Dominican Republic","diff_rate:  -12.4223602<br />Grenada","diff_rate:  -78.5714286<br />Guadeloupe","diff_rate:   -5.8945908<br />Jamaica","diff_rate:  -62.5000000<br />Martinique","diff_rate:   -5.4945055<br />St. Vincent and the Grenadines","diff_rate:  -26.1194030<br />Sint Maarten","diff_rate:   -7.2327044<br />Trinidad and Tobago","diff_rate:   -9.2783505<br />Belize","diff_rate:   -8.5483871<br />Costa Rica","diff_rate:   -5.6293485<br />El Salvador","diff_rate:   -7.7824268<br />Guatemala","diff_rate:   -6.4784822<br />Honduras","diff_rate:   -9.4926122<br />Mexico","diff_rate:   -2.2494888<br />Nicaragua","diff_rate:   -2.8688525<br />Panama","diff_rate:  -10.0494234<br />Argentina","diff_rate:   -6.2552127<br />Bolivia","diff_rate:  -16.0218343<br />Brazil","diff_rate:  -10.3101087<br />Chile","diff_rate:   -8.7325029<br />Colombia","diff_rate:  -11.8162693<br />Ecuador","diff_rate:  -42.8571429<br />French Guiana","diff_rate:   -3.5087719<br />Suriname","diff_rate:  -12.8035320<br />Uruguay","diff_rate:  -10.6929249<br />Venezuela","diff_rate:  -10.8374384<br />Bahrain","diff_rate:  -16.0422671<br />Iran","diff_rate:  -20.1036269<br />Iraq","diff_rate:  -17.1608266<br />Israel","diff_rate:   -4.2195821<br />Jordan","diff_rate:  -18.2567164<br />Kuwait","diff_rate:   -0.5266238<br />Lebanon","diff_rate:  -13.3547009<br />Oman","diff_rate:  -11.2970711<br />Palestinian Territories","diff_rate:  -16.1194030<br />Qatar","diff_rate:  -29.1501114<br />Saudi Arabia","diff_rate:   -8.2073434<br />Syria","diff_rate:  -16.2487946<br />United Arab Emirates","diff_rate:   -8.4375000<br />Yemen","diff_rate:   -8.3682008<br />Algeria","diff_rate:   -4.8458150<br />Egypt","diff_rate:  -21.8055556<br />Libya","diff_rate:  -13.6757839<br />Morocco","diff_rate:  -19.6992481<br />Tunisia","diff_rate:   -3.2663897<br />Canada","diff_rate:  -27.2782015<br />Australia","diff_rate:   -1.1111111<br />Fiji","diff_rate:  -20.8955224<br />Kiribati","diff_rate:  -12.5000000<br />Marshall Islands","diff_rate:  -50.0000000<br />Nauru","diff_rate:  -18.1034483<br />New Zealand","diff_rate:  -26.4705882<br />Palau","diff_rate:   -5.8823529<br />Solomon Islands","diff_rate:  -15.3846154<br />Vanuatu","diff_rate:  -80.9523810<br />Latin America & Caribbean, Unspecified"],"type":"scatter","mode":"markers","marker":{"autocolorscale":false,"color":"rgba(21,62,126,1)","opacity":0.5,"size":7.55905511811024,"symbol":"circle","line":{"width":1.88976377952756,"color":"rgba(21,62,126,1)"}},"hoveron":"points","name":"decrease","legendgroup":"decrease","showlegend":true,"xaxis":"x","yaxis":"y","hoverinfo":"text","frame":null},{"x":[0,42.6470588235294,1.88679245283019,1.83908045977011,8.33333333333333,1.96078431372549,9.80392156862745,0,4.02298850574713,0,0,3.1496062992126,0.826446280991736,100,3.27868852459016,0.189528547737503,13.0434782608696,1.00502512562814,100,14.2857142857143,10,45.4545454545455,100,30,0,0,1.36986301369863,13.758389261745,1.21527777777778,5.01968503937008,50,8.7962962962963,0.465116279069767,24.3243243243243,null,18.936877076412,32.0197044334975,0.253735551170003,null,32.6530612244898,35.2941176470588,16.6666666666667,900,0,13.6363636363636,39.4736842105263,17.3913043478261,50,null,71.4285714285714,null,null,50,null,null],"y":[1,1,1,1,1,1,1,1,1,1,1,1,1,1,1,1,1,1,2,2,2,3,3,3,3,4,4,4,4,4,4,4,4,4,4,4,4,4,7,7,7,7,7,7,7,7,7,7,7,8,1,2,3,5,7],"text":["diff_rate:    0.0000000<br />Djibouti","diff_rate:   42.6470588<br />Somalia","diff_rate:    1.8867925<br />Sudan","diff_rate:    1.8390805<br />Uganda","diff_rate:    8.3333333<br />Central African Republic","diff_rate:    1.9607843<br />Chad","diff_rate:    9.8039216<br />Congo, Republic of the (Brazzaville)","diff_rate:    0.0000000<br />São Tomé & Príncipe","diff_rate:    4.0229885<br />Eswatini","diff_rate:    0.0000000<br />Lesotho","diff_rate:    0.0000000<br />Madagascar","diff_rate:    3.1496063<br />Mozambique","diff_rate:    0.8264463<br />Namibia","diff_rate:  100.0000000<br />Reunion","diff_rate:    3.2786885<br />Cabo Verde/Cape Verde","diff_rate:    0.1895285<br />Ghana","diff_rate:   13.0434783<br />Guinea","diff_rate:    1.0050251<br />Sierra Leone","diff_rate:  100.0000000<br />North Korea","diff_rate:   14.2857143<br />Cambodia","diff_rate:   10.0000000<br />Timor-Leste/East Timor","diff_rate:   45.4545455<br />Andorra","diff_rate:  100.0000000<br />Gibraltar","diff_rate:   30.0000000<br />Monaco","diff_rate:    0.0000000<br />Vatican City/Holy See","diff_rate:    0.0000000<br />Anguilla","diff_rate:    1.3698630<br />Aruba","diff_rate:   13.7583893<br />Barbados","diff_rate:    1.2152778<br />Dominica","diff_rate:    5.0196850<br />Haiti","diff_rate:   50.0000000<br />Montserrat","diff_rate:    8.7962963<br />St. Kitts and Nevis","diff_rate:    0.4651163<br />St. Lucia","diff_rate:   24.3243243<br />Turks and Caicos","diff_rate:          NaN<br />Falkland Islands","diff_rate:   18.9368771<br />Guyana","diff_rate:   32.0197044<br />Paraguay","diff_rate:    0.2537356<br />Peru","diff_rate:           NA<br />Cook Islands","diff_rate:   32.6530612<br />French Polynesia","diff_rate:   35.2941176<br />Micronesia","diff_rate:   16.6666667<br />New Caledonia","diff_rate:  900.0000000<br />Niue","diff_rate:    0.0000000<br />Norfolk Island","diff_rate:   13.6363636<br />Papua New Guinea","diff_rate:   39.4736842<br />Samoa","diff_rate:   17.3913043<br />Tonga","diff_rate:   50.0000000<br />Tuvalu","diff_rate:           NA<br />Wallis and Futuna","diff_rate:   71.4285714<br />Stateless","diff_rate:          NaN<br />Africa, Unspecified","diff_rate:          NaN<br />Asia, Unspecified","diff_rate:   50.0000000<br />Europe, Unspecified","diff_rate:          NaN<br />Middle East, Unspecified","diff_rate:          NaN<br />Oceania, Unspecified"],"type":"scatter","mode":"markers","marker":{"autocolorscale":false,"color":"rgba(234,95,148,1)","opacity":0.5,"size":7.55905511811024,"symbol":"circle","line":{"width":1.88976377952756,"color":"rgba(234,95,148,1)"}},"hoveron":"points","name":"increase","legendgroup":"increase","showlegend":true,"xaxis":"x","yaxis":"y","hoverinfo":"text","frame":null}],"layout":{"margin":{"t":43.7625570776256,"r":7.30593607305936,"b":40.1826484018265,"l":171.689497716895},"plot_bgcolor":"rgba(255,255,255,1)","paper_bgcolor":"rgba(255,255,255,1)","font":{"color":"rgba(0,0,0,1)","family":"","size":14.6118721461187},"title":{"text":"Change rate of student number during COVID-19","font":{"color":"rgba(0,0,0,1)","family":"","size":17.5342465753425},"x":0,"xref":"paper"},"xaxis":{"domain":[0,1],"automargin":true,"type":"linear","autorange":false,"range":[-150,950],"tickmode":"array","ticktext":["0","250","500","750"],"tickvals":[0,250,500,750],"categoryorder":"array","categoryarray":["0","250","500","750"],"nticks":null,"ticks":"outside","tickcolor":"rgba(51,51,51,1)","ticklen":3.65296803652968,"tickwidth":0.66417600664176,"showticklabels":true,"tickfont":{"color":"rgba(77,77,77,1)","family":"","size":11.689497716895},"tickangle":-0,"showline":false,"linecolor":null,"linewidth":0,"showgrid":true,"gridcolor":"rgba(235,235,235,1)","gridwidth":0.66417600664176,"zeroline":false,"anchor":"y","title":{"text":"diff_rate","font":{"color":"rgba(0,0,0,1)","family":"","size":14.6118721461187}},"hoverformat":".2f"},"yaxis":{"domain":[0,1],"automargin":true,"type":"linear","autorange":false,"range":[0.4,8.6],"tickmode":"array","ticktext":["Africa","Asia","Europe","Latin America & Caribbean","Middle East","North America","Oceania","Unknown State"],"tickvals":[1,2,3,4,5,6,7,8],"categoryorder":"array","categoryarray":["Africa","Asia","Europe","Latin America & Caribbean","Middle East","North America","Oceania","Unknown State"],"nticks":null,"ticks":"outside","tickcolor":"rgba(51,51,51,1)","ticklen":3.65296803652968,"tickwidth":0.66417600664176,"showticklabels":true,"tickfont":{"color":"rgba(77,77,77,1)","family":"","size":11.689497716895},"tickangle":-0,"showline":false,"linecolor":null,"linewidth":0,"showgrid":true,"gridcolor":"rgba(235,235,235,1)","gridwidth":0.66417600664176,"zeroline":false,"anchor":"x","title":{"text":"Continents","font":{"color":"rgba(0,0,0,1)","family":"","size":14.6118721461187}},"hoverformat":".2f"},"shapes":[{"type":"rect","fillcolor":"transparent","line":{"color":"rgba(51,51,51,1)","width":0.66417600664176,"linetype":"solid"},"yref":"paper","xref":"paper","x0":0,"x1":1,"y0":0,"y1":1}],"showlegend":true,"legend":{"bgcolor":"rgba(255,255,255,1)","bordercolor":"transparent","borderwidth":1.88976377952756,"font":{"color":"rgba(0,0,0,1)","family":"","size":11.689497716895},"title":{"text":"change","font":{"color":"rgba(0,0,0,1)","family":"","size":14.6118721461187}}},"hovermode":"closest","barmode":"relative"},"config":{"doubleClick":"reset","modeBarButtonsToAdd":["hoverclosest","hovercompare"],"showSendToCloud":false},"source":"A","attrs":{"d5981b8069a9":{"x":{},"y":{},"colour":{},"text":{},"type":"scatter"}},"cur_data":"d5981b8069a9","visdat":{"d5981b8069a9":["function (y) ","x"]},"highlight":{"on":"plotly_click","persistent":false,"dynamic":false,"selectize":false,"opacityDim":0.2,"selected":{"opacity":1},"debounce":0},"shinyEvents":["plotly_hover","plotly_click","plotly_selected","plotly_relayout","plotly_brushed","plotly_brushing","plotly_clickannotation","plotly_doubleclick","plotly_deselect","plotly_afterplot","plotly_sunburstclick"],"base_url":"https://plot.ly"},"evals":[],"jsHooks":[]}</script>
 <p><br></p>
 <p>This cross-tab chart shows that even with the impact of the pendemic, there are countries with positive growth rates of international students study in US. Niue in Oceania has a growth rate of 900%, while the lowest is Saint Helena in Africa with a growth rate of -100%.</p>
 <p><br></p>
@@ -390,8 +390,9 @@ According to this map, we can find that China, India, and South Korea are the ma
 <span id="cb9-6"><a href="results.html#cb9-6" aria-hidden="true" tabindex="-1"></a>  <span class="fu">labs</span>(<span class="at">title =</span> <span class="st">&quot;Place with the highest reduction rate of </span></span>
 <span id="cb9-7"><a href="results.html#cb9-7" aria-hidden="true" tabindex="-1"></a><span class="st">number of students in U.S. during COVID-19&quot;</span>) <span class="sc">+</span></span>
 <span id="cb9-8"><a href="results.html#cb9-8" aria-hidden="true" tabindex="-1"></a>  <span class="fu">ylab</span>(<span class="st">&quot;&quot;</span>) <span class="sc">+</span></span>
-<span id="cb9-9"><a href="results.html#cb9-9" aria-hidden="true" tabindex="-1"></a>  <span class="fu">xlab</span>(<span class="st">&quot;Decreased rate&quot;</span>)<span class="sc">+</span></span>
-<span id="cb9-10"><a href="results.html#cb9-10" aria-hidden="true" tabindex="-1"></a>  <span class="fu">theme_linedraw</span>()</span></code></pre></div>
+<span id="cb9-9"><a href="results.html#cb9-9" aria-hidden="true" tabindex="-1"></a>  <span class="fu">xlim</span>(<span class="dv">0</span>,<span class="dv">100</span>)<span class="sc">+</span></span>
+<span id="cb9-10"><a href="results.html#cb9-10" aria-hidden="true" tabindex="-1"></a>  <span class="fu">xlab</span>(<span class="st">&quot;Decreased rate (negetive)&quot;</span>)<span class="sc">+</span></span>
+<span id="cb9-11"><a href="results.html#cb9-11" aria-hidden="true" tabindex="-1"></a>  <span class="fu">theme_linedraw</span>()</span></code></pre></div>
 <p><img src="finalproj_files/figure-html/ch5plot6-1.png" width="672" /></p>
 <p><br></p>
 <p>Further, this chart shows the top 10 countries with negative growth rates, and the overall values for these countries range from -40% to -100%.</p>
